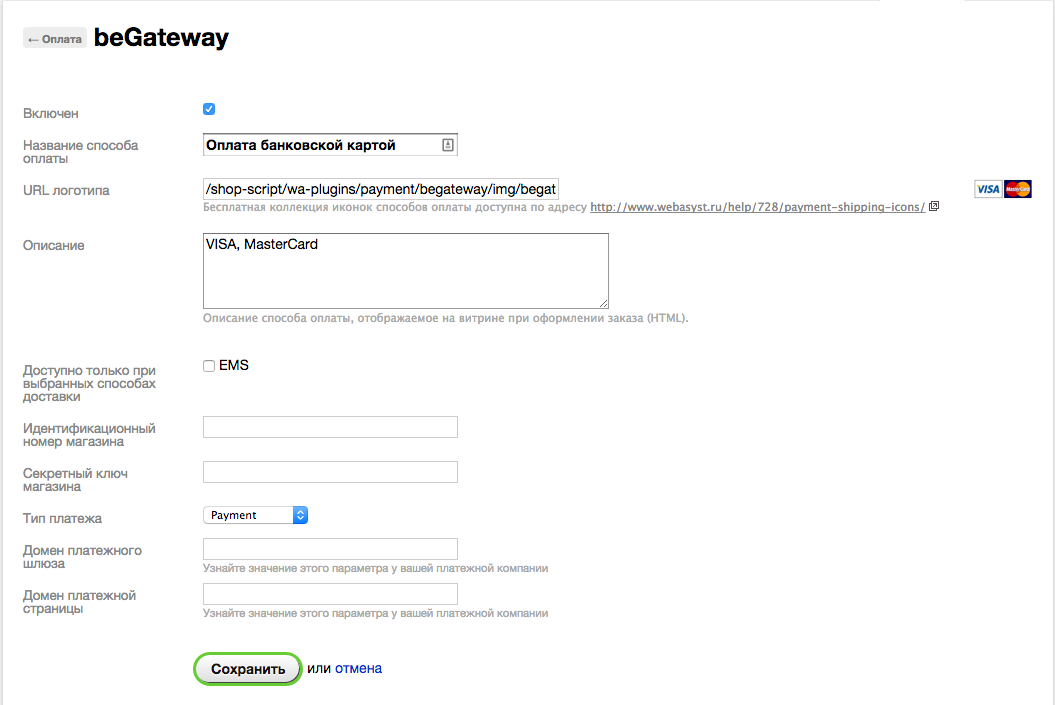
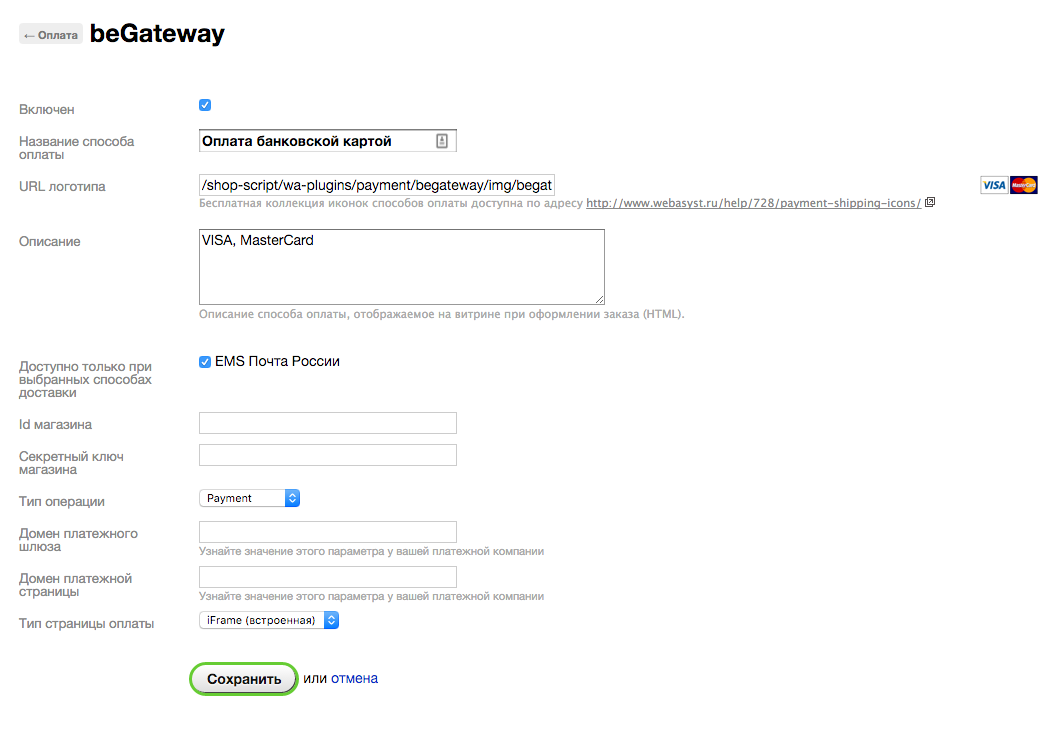
update readme

diff --git a/Readme.md b/Readme.md
@@ -24,6 +24,7 @@ At the payment module configuration:
     MasterCard__
   * Select a default transaction type: __Payment__ or __Authorization__
   * Enter in fields _Shop Id_, _Shop secret key_, _Payment gateway domain_ and _Payment page domain_ values received from your payment processor.
+  * Select payment page mode: inline iFrame or redirect to your payment processor payment page
 
 ![Module configuration](https://github.com/BeGateway/shop-script-payment-module/raw/master/doc/module-configuration.png)
 
@@ -83,6 +84,7 @@ Issue pull requests or send feature requests.
     MasterCard__
   * Выберите тип платежа: __Payment__ or __Authorization__
   * В полях _Идентификационный номер магазина_, _Секретный ключ магазина_, _Домен платежного шлюза_ и _Домен платежной страницы_ введите значения, полученные от вашей платежной компании.
+  * Выберите способ отображения страницы оплаты заказа: встроенный iFrame или перенаправление на страницу оплаты вашей платежной компании.
 
 ![Настройка способа оплаты](https://github.com/BeGateway/shop-script-payment-module/raw/master/doc/module-configuration-ru.png)
 
